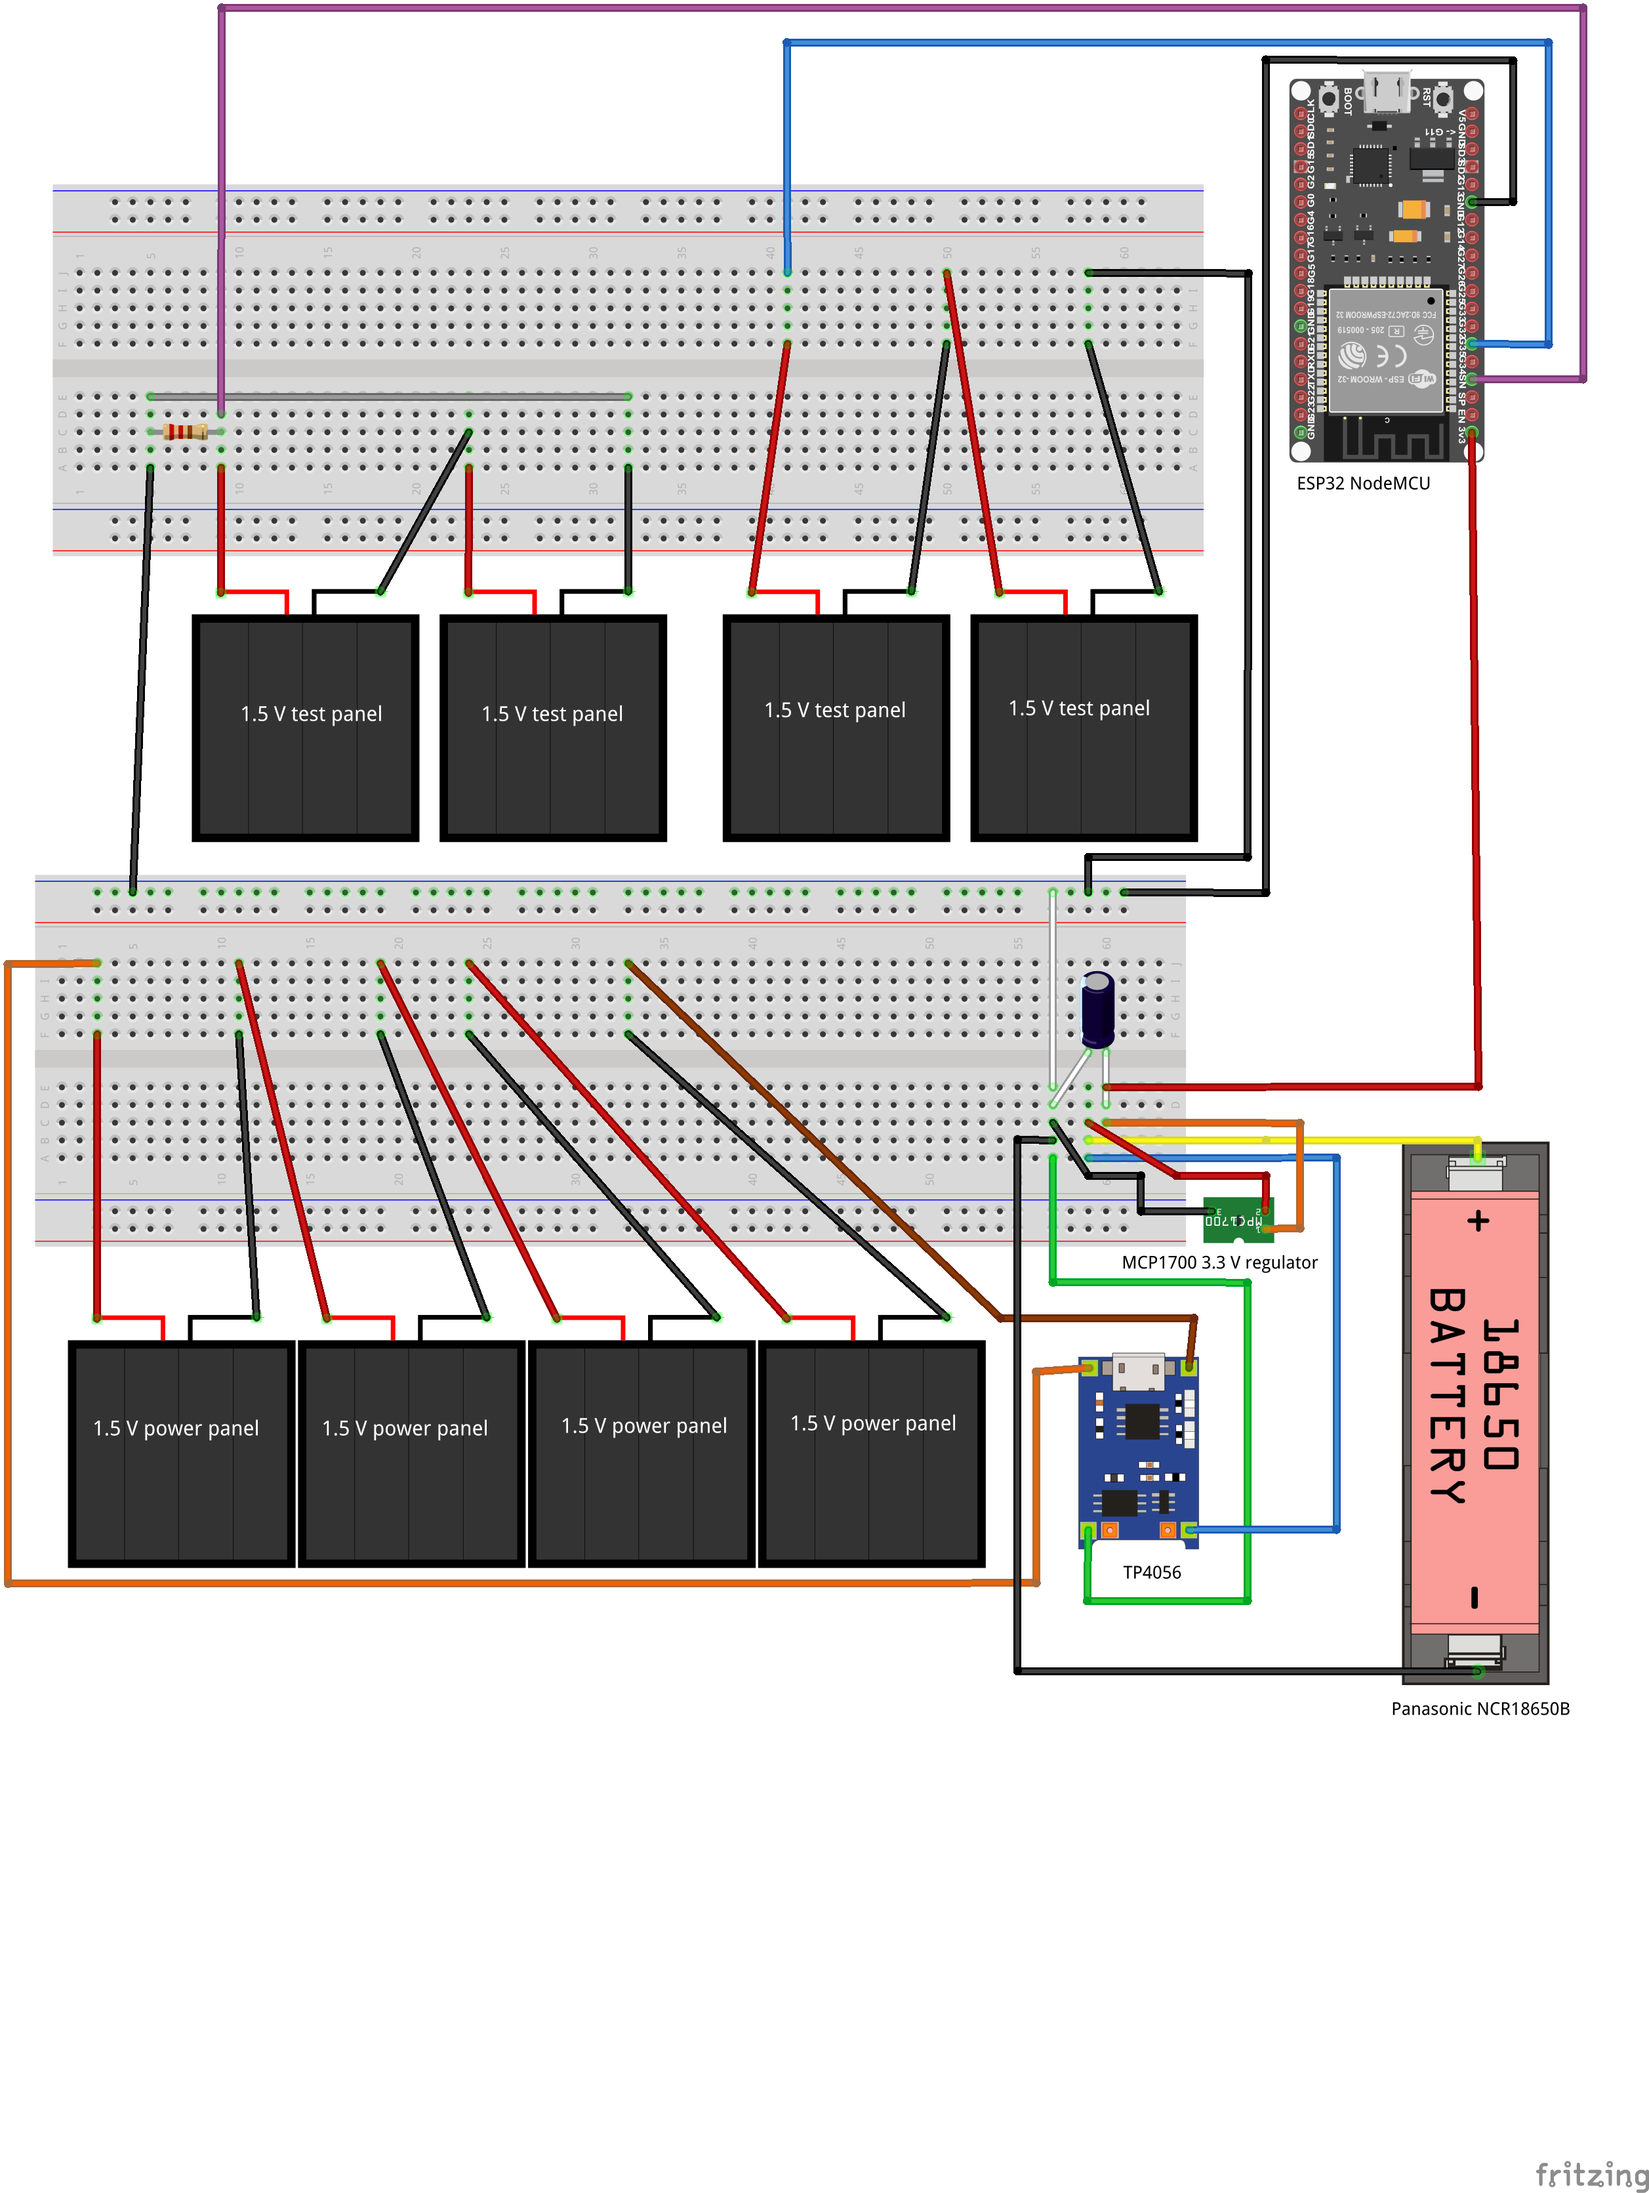
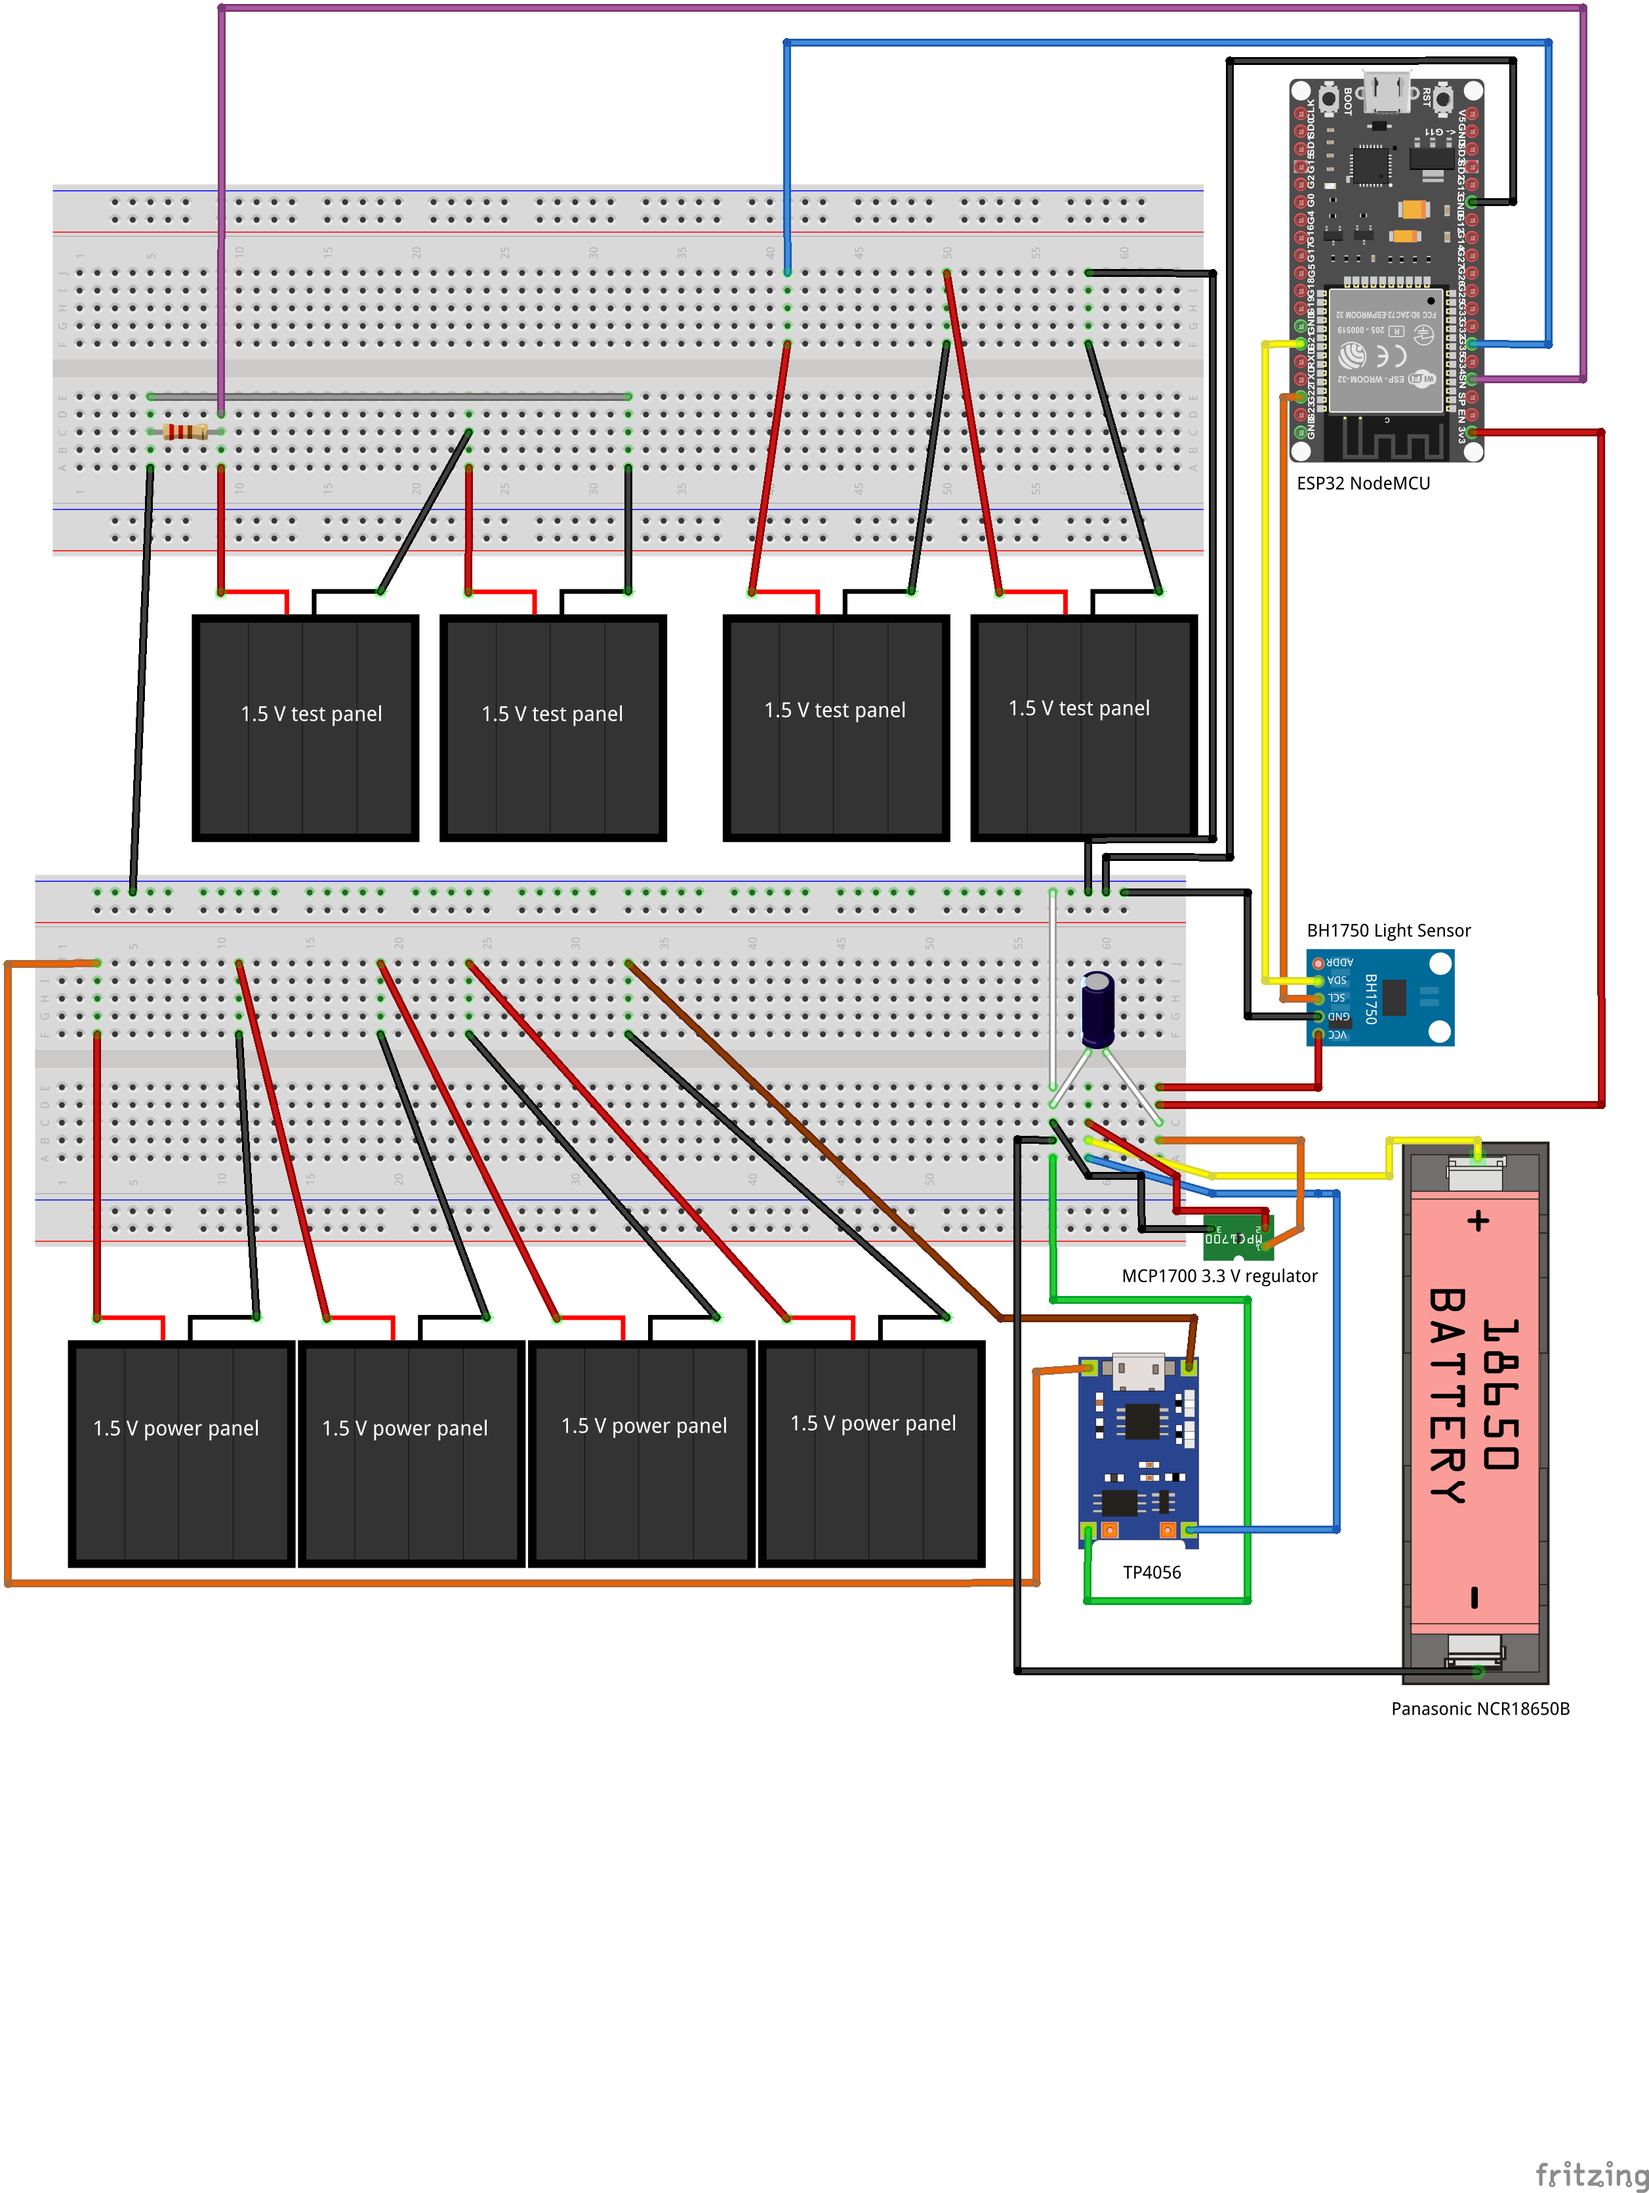
added light sensor to fritzing and readme

Changed region(s): [[0.6205, 0.0, 0.9928, 0.6224], [0.6516, 0.3734, 0.6826, 0.4045]]

diff --git a/version_2_self_sufficient/README.md b/version_2_self_sufficient/README.md
@@ -10,6 +10,7 @@ Hardware:
     8x Solar Panels (1,5 V)   
     1x Capacitor (100 microfarads) 
     1x Resistor (220 Ohms)
+    1x BH1750 Light Sensor
 
   
 Software:  
@@ -20,7 +21,7 @@ Software:
 -------
 ### Wiring: 
   
-![enter image description here](https://i.ibb.co/NjzJXbx/v2-fritzing-bb.png)
+![enter image description here](https://i.ibb.co/gvGW30m/v2-fritzing-bb.png)
 
 ------
 
